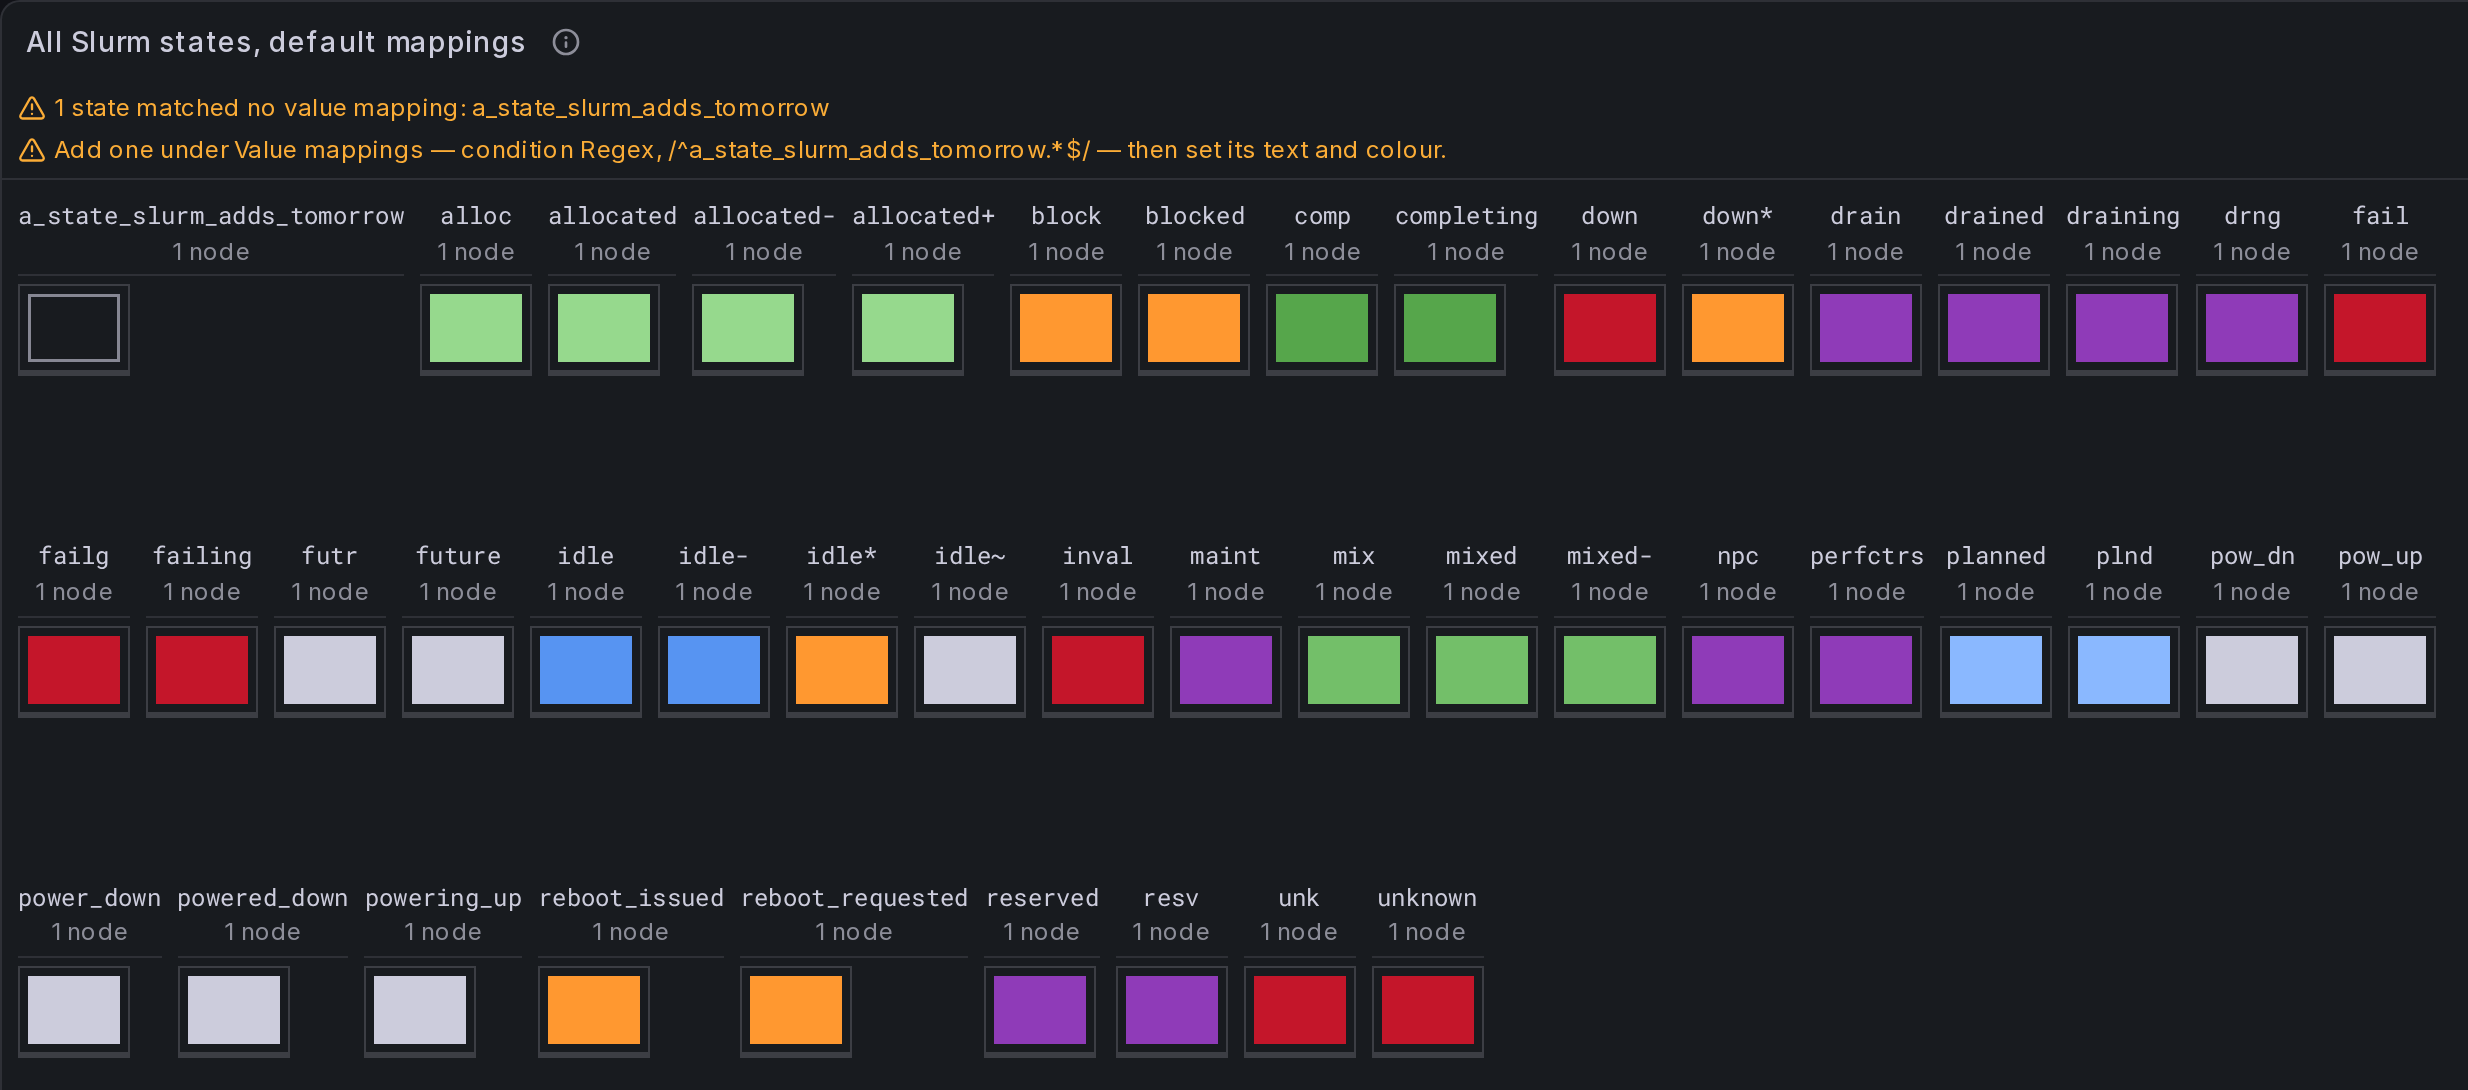
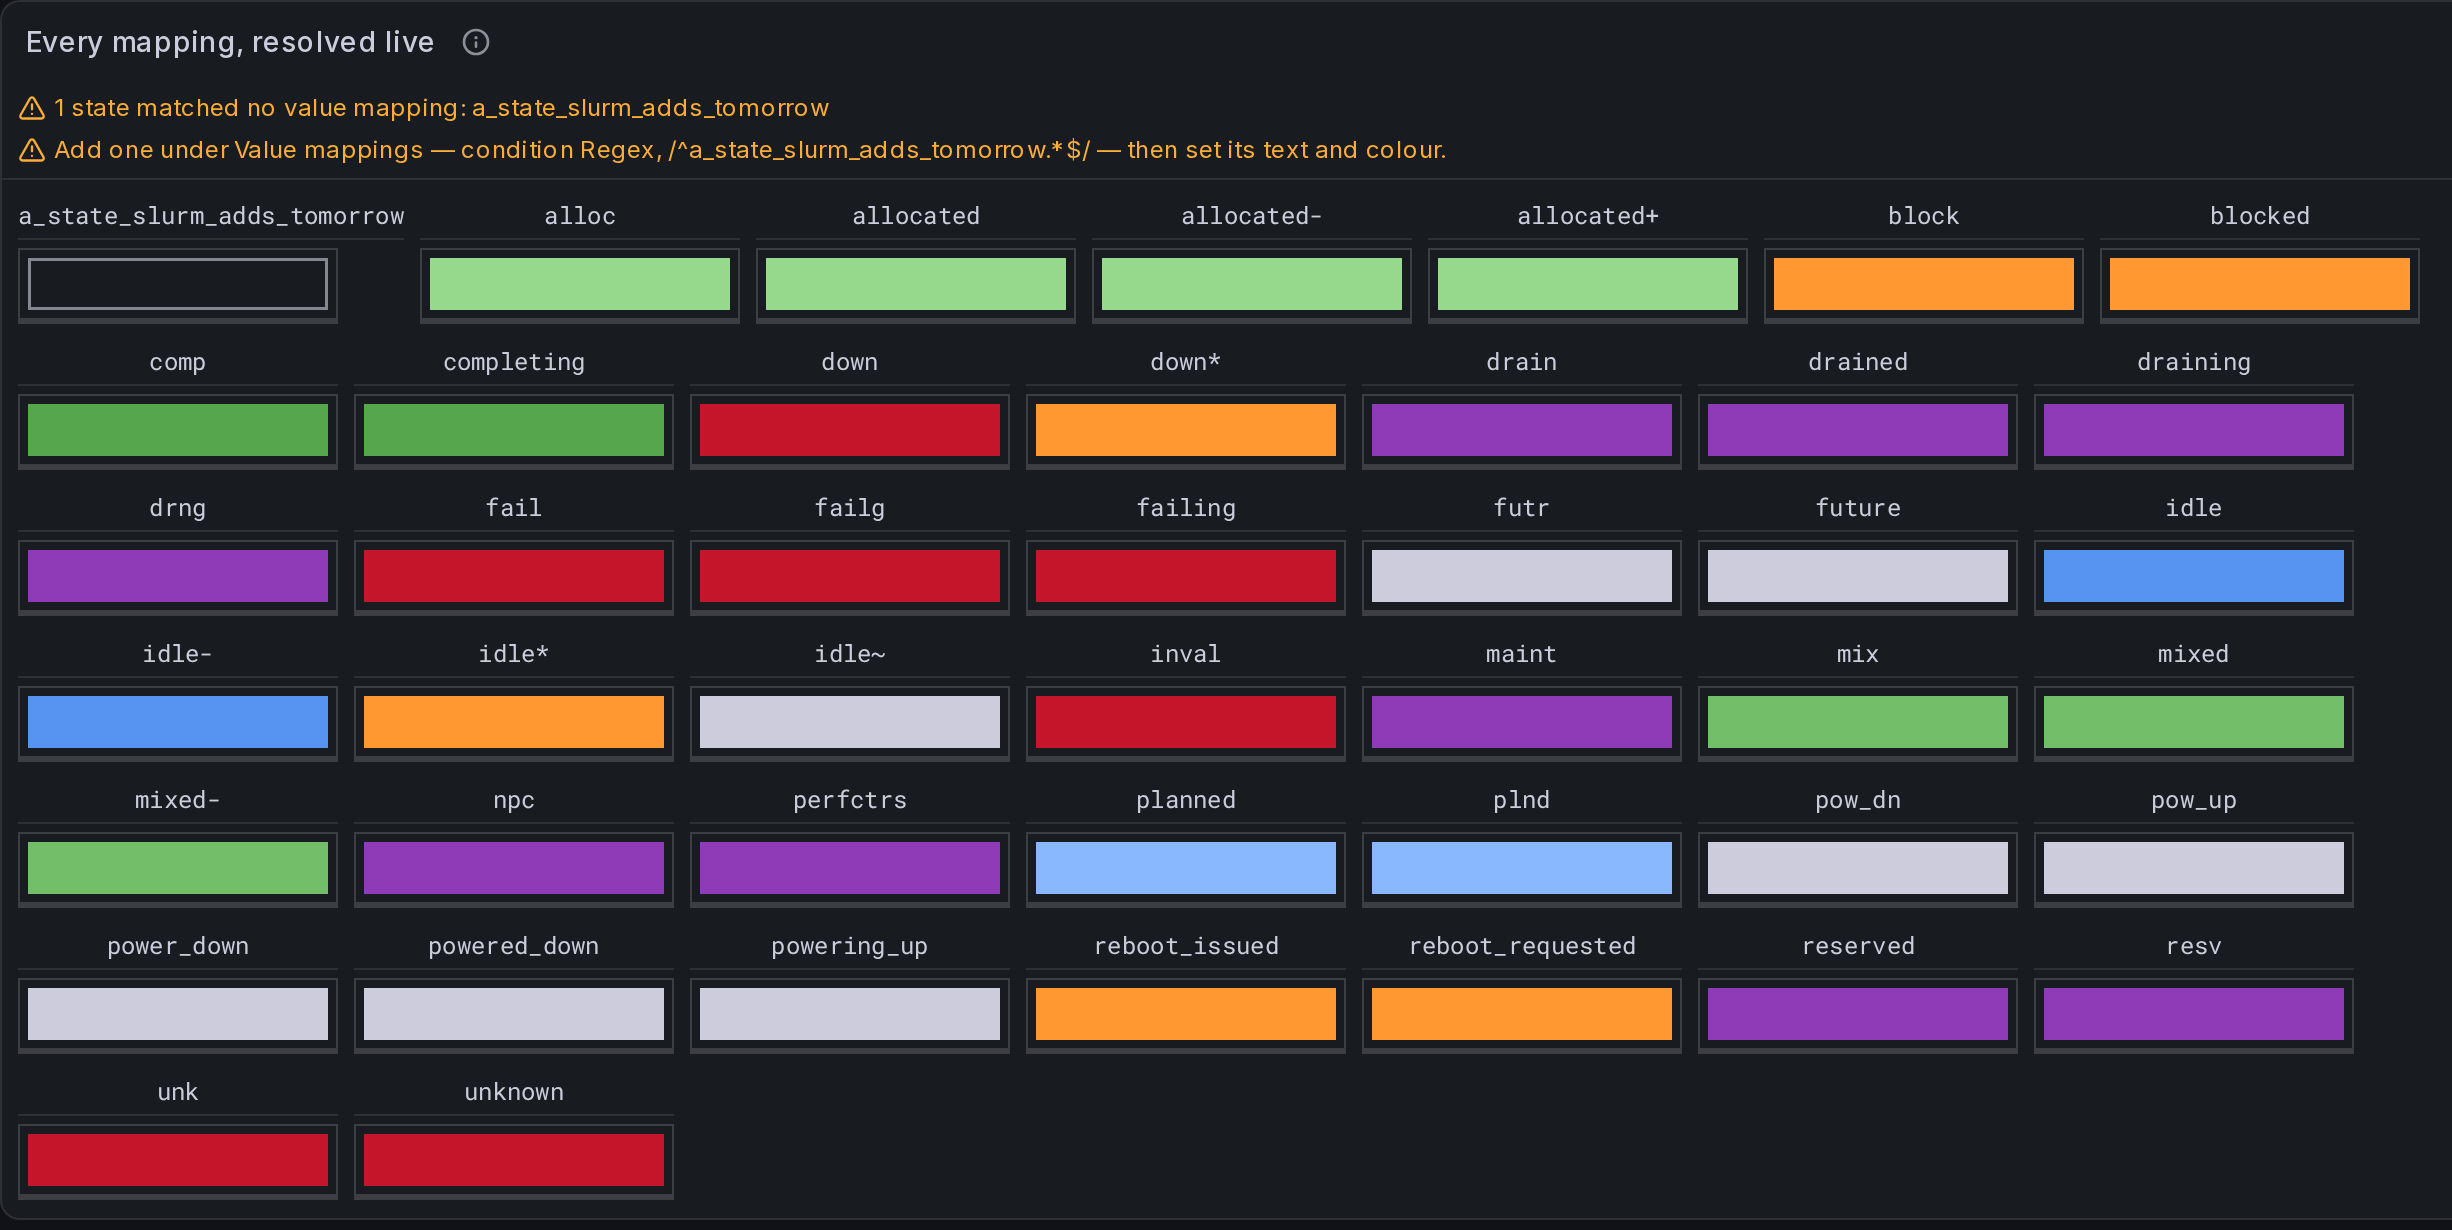
feat(dev): make the live mapping panel a swatch chart, not a second list
It looked like a worse copy of the table beside it, and for a fair reason:
forty-four cabinets, each holding one node, each captioned "1 node". The
count is noise when every group has exactly one, and a 14px sled is not a
swatch. showNodeCount off, cells at 40 by 26, and it reads as what it is.

It is not the table again. The table groups twenty-one states into nine
colours and is written by hand, with nothing checking it - this repository
has already shipped a panel description that was two cluster shapes out of
date. This panel renders the rules the plugin ships, so it cannot drift,
and it is the longer list on purpose: sinfo writes each state several ways
and every spelling has to resolve.

It also carries a_state_slurm_adds_tomorrow, which is not a Slurm state and
never will be, standing in for whatever a future Slurm introduces. Two e2e
tests assert on it: the hollow ring rather than a colour by accident, and
the exact rule the strip prints to fix it.

Retitled "Every mapping, resolved live", and both panels now say in their
descriptions why the other one exists.

diff --git a/plugins/nodegrid-panel/tests/nodegrid.spec.ts b/plugins/nodegrid-panel/tests/nodegrid.spec.ts
@@ -147,7 +147,7 @@ test.describe('the panel supplies its own state colours', () => {
       // Only the panels that colour by state: 3, 4 and 5 resolve their fill
       // through Thresholds instead, so their cells carry no mapping at all
       // and counting them here would measure the wrong thing.
-      [2, 'All Slurm states, default mappings'],
+      [2, 'Every mapping, resolved live'],
       [6, 'Shape channel off, the default'],
       [7, 'Shape channel on'],
     ];
